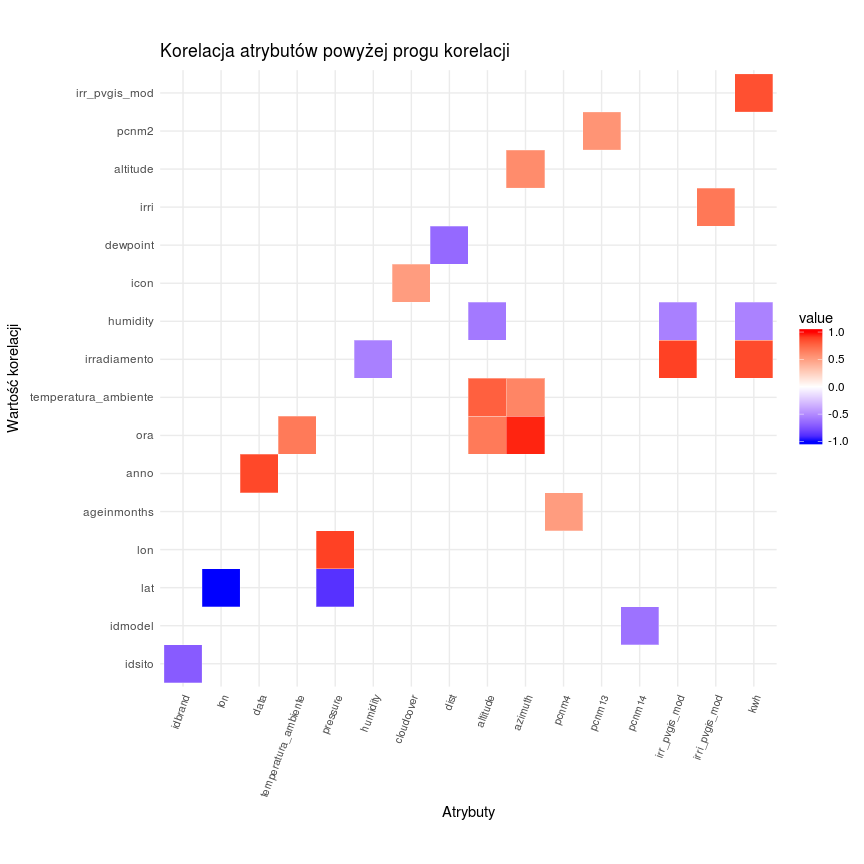
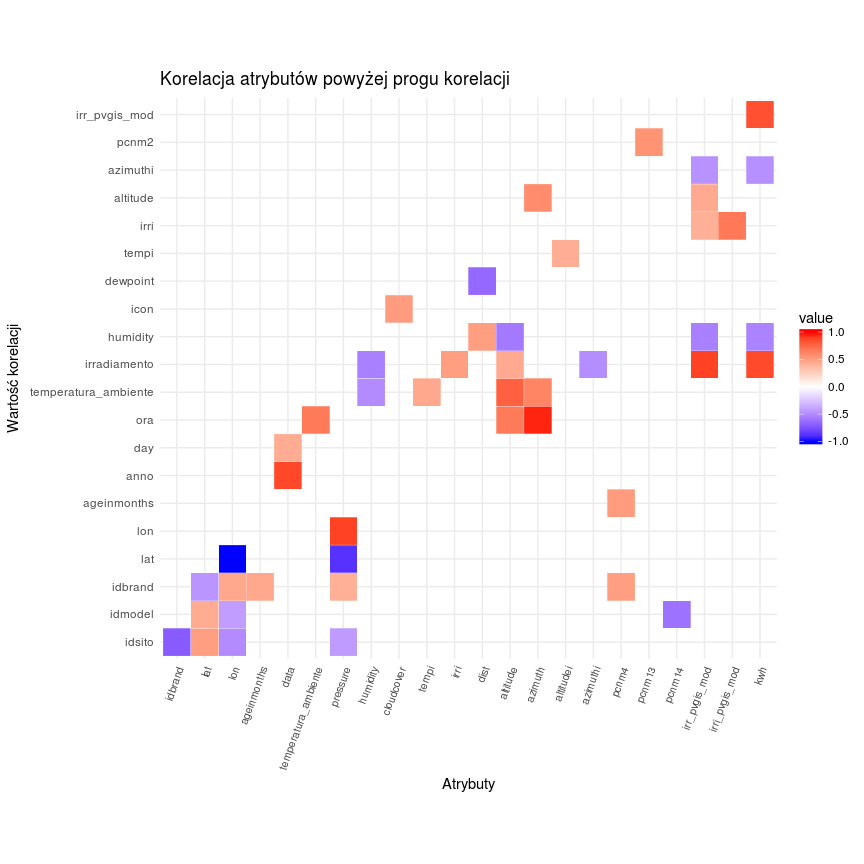
Tiny update

diff --git a/README.md b/README.md
@@ -438,10 +438,10 @@ ggplot(data = correlations_melt, aes(Var1, Var2, fill = value)) +
 
 ![](README_files/figure-markdown_github/unnamed-chunk-4-1.png)
 
-#### 2. Wykres korelacji między zmiennymi dla wartości bezwzględnej korelacji &gt; 0.5 z pominięciem korelacji zmiennej względem samej siebie
+#### 2. Wykres korelacji między zmiennymi dla wartości bezwzględnej korelacji &gt; 0.4 z pominięciem korelacji zmiennej względem samej siebie
 
 ``` r
-top_correlatinons <- correlations_melt %>% filter(abs(value) > 0.5, Var1 != Var2)
+top_correlatinons <- correlations_melt %>% filter(abs(value) > 0.4, Var1 != Var2)
 ggplot(data = top_correlatinons, aes(Var1, Var2, fill = value)) + 
   geom_tile(color = "white") + 
   labs(title = "Korelacja atrybutów powyżej progu korelacji", x = "Atrybuty", y = "Wartość korelacji") + 
@@ -481,8 +481,11 @@ ggplot(data = energy_sito_date, mapping = aes(x=date_year_month, y=sum_kwh, colo
 
 ### Regresor
 
+Do utworzenia regresora użyte zostaną najbardziej skorelowane
+(pozytywnie lub negatywnie) atrybuty
+
 ``` r
-power_stations_sample <- sample_n(power_stations %>% select(idsito, irradiamento, irr_pvgis_mod, altitude, irri, humidity, kwh), 10000)
+power_stations_sample <- power_stations %>% select(idsito, irradiamento, irr_pvgis_mod, altitude, irri, tempi, kwh)
 set.seed(93)
 inTraining <- 
     createDataPartition(
@@ -509,21 +512,21 @@ fit
 
     ## Random Forest 
     ## 
-    ## 8503 samples
-    ##    6 predictors
+    ## 200422 samples
+    ##      6 predictors
     ## 
     ## No pre-processing
     ## Resampling: Cross-Validated (2 fold, repeated 2 times) 
-    ## Summary of sample sizes: 4251, 4252, 4251, 4252 
+    ## Summary of sample sizes: 100211, 100211, 100212, 100210 
     ## Resampling results across tuning parameters:
     ## 
     ##   mtry  RMSE        Rsquared   MAE       
-    ##   2     0.08437924  0.8350559  0.04701773
-    ##   4     0.08418971  0.8356464  0.04618957
-    ##   6     0.08483365  0.8331416  0.04633323
+    ##   2     0.06970211  0.8888622  0.03467843
+    ##   4     0.07002314  0.8877565  0.03414067
+    ##   6     0.07088916  0.8849391  0.03441209
     ## 
     ## RMSE was used to select the optimal model using  the smallest value.
-    ## The final value used for the model was mtry = 4.
+    ## The final value used for the model was mtry = 2.
 
 ``` r
 my_pred <- predict(fit, newdata = testing)
@@ -532,4 +535,4 @@ defaultSummary(data.frame(pred = my_pred, obs = testing$kwh))
 ```
 
     ##       RMSE   Rsquared        MAE 
-    ## 0.07888085 0.86261810 0.04382253
+    ## 0.06783002 0.89444675 0.03282992
